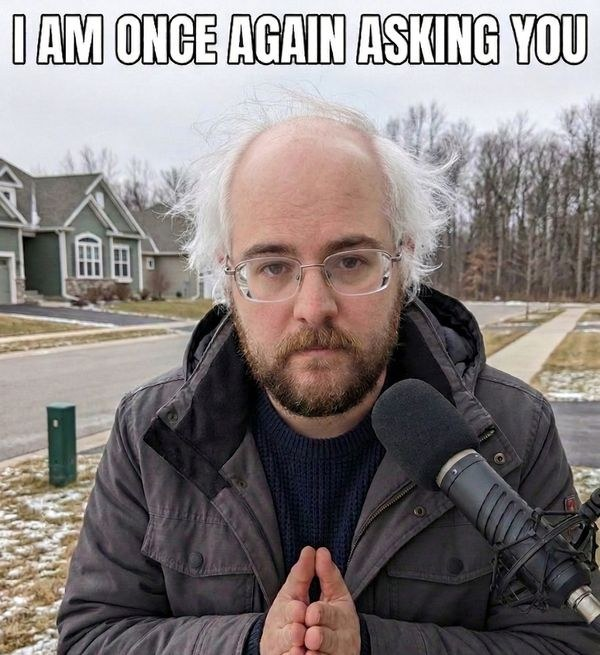
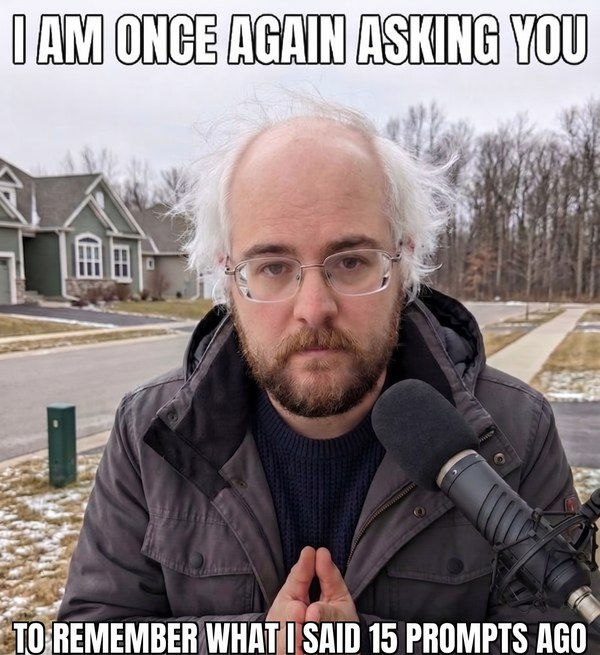
Edition 7: bake meme caption into image, upgrade context window demo
Meme regenerated via Nano Banana with the tagline rendered into the
image. Interactive demo now shows per-message token costs, a live
whiteboard capacity meter, and a sliding "what the AI can see" frame
with token-based eviction, plus an autoplay button.

diff --git a/edition-7.html b/edition-7.html
@@ -204,11 +204,80 @@
       margin-top: 18px;
     }
 
+    .context-meter { margin-bottom: 20px; }
+
+    .context-meter-label {
+      display: flex;
+      justify-content: space-between;
+      align-items: baseline;
+      font-size: 13px;
+      font-weight: 600;
+      color: var(--purple-700);
+      margin-bottom: 6px;
+    }
+
+    .context-meter-label strong {
+      font-size: 13px;
+      color: var(--purple-700);
+      font-variant-numeric: tabular-nums;
+    }
+
+    .context-meter-track {
+      height: 10px;
+      background: var(--purple-200);
+      border-radius: 100px;
+      overflow: hidden;
+    }
+
+    .context-meter-fill {
+      height: 100%;
+      width: 0%;
+      background: var(--purple-500);
+      border-radius: 100px;
+      transition: width 0.4s ease, background-color 0.4s ease;
+    }
+
+    .context-meter-fill.warn { background: #ff9800; }
+
+    .chat-stage {
+      position: relative;
+      padding: 10px 8px;
+    }
+
+    .context-frame {
+      position: absolute;
+      left: 0;
+      right: 0;
+      border: 2px solid var(--purple-500);
+      background: rgba(142, 68, 173, 0.05);
+      border-radius: 12px;
+      pointer-events: none;
+      transition: top 0.4s ease, height 0.4s ease;
+      z-index: 1;
+    }
+
+    .context-frame-label {
+      position: absolute;
+      top: -9px;
+      right: 12px;
+      background: var(--purple-500);
+      color: #fff;
+      font-size: 10px;
+      font-weight: 700;
+      text-transform: uppercase;
+      letter-spacing: 0.5px;
+      padding: 2px 10px;
+      border-radius: 100px;
+      white-space: nowrap;
+    }
+
     .chat-msg {
       display: flex;
       margin-bottom: 10px;
-      transition: opacity 0.3s;
+      transition: opacity 0.4s, filter 0.4s;
     }
+
+    .chat-msg:last-child { margin-bottom: 0; }
 
     .chat-msg.teacher { justify-content: flex-end; }
 
@@ -233,34 +302,32 @@
       border-bottom-left-radius: 4px;
     }
 
+    .tok {
+      display: block;
+      width: fit-content;
+      margin-top: 6px;
+      font-size: 10.5px;
+      font-weight: 600;
+      padding: 1px 8px;
+      border-radius: 100px;
+    }
+
+    .chat-msg.teacher .tok {
+      background: rgba(255, 255, 255, 0.18);
+      color: rgba(255, 255, 255, 0.9);
+    }
+
+    .chat-msg.ai .tok {
+      background: var(--purple-100);
+      color: var(--purple-600);
+    }
+
     .chat-msg.hidden { display: none; }
 
     .chat-msg.forgotten {
       opacity: 0.3;
       filter: grayscale(1);
     }
-
-    .chat-divider {
-      display: flex;
-      align-items: center;
-      gap: 10px;
-      font-size: 11px;
-      font-weight: 700;
-      letter-spacing: 0.5px;
-      text-transform: uppercase;
-      color: var(--purple-500);
-      margin: 14px 0;
-      white-space: nowrap;
-    }
-
-    .chat-divider::before,
-    .chat-divider::after {
-      content: '';
-      flex: 1;
-      border-top: 2px dashed var(--purple-300);
-    }
-
-    .chat-divider.hidden { display: none; }
 
     .chat-controls {
       margin-top: 18px;
@@ -274,11 +341,34 @@
       margin-bottom: 6px;
     }
 
-    .chat-controls input[type="range"] {
-      width: 100%;
+    .chat-controls-row {
+      display: flex;
+      align-items: center;
+      gap: 14px;
+    }
+
+    .chat-controls-row input[type="range"] {
+      flex: 1;
       accent-color: var(--purple-500);
       cursor: pointer;
     }
+
+    .chat-play-btn {
+      background: var(--purple-500);
+      color: #fff;
+      border: none;
+      font-family: inherit;
+      font-size: 12px;
+      font-weight: 600;
+      padding: 6px 16px;
+      border-radius: 100px;
+      cursor: pointer;
+      letter-spacing: 0.3px;
+      white-space: nowrap;
+    }
+
+    .chat-play-btn:hover { background: var(--purple-600); }
+    .chat-play-btn:disabled { opacity: 0.6; cursor: default; }
 
     .chat-status {
       font-size: 13px;
@@ -580,9 +670,8 @@
 
   <!-- MEME BANNER -->
   <div class="meme-banner">
-    <img src="tom-bernie-summer.jpg" alt="Tom as Bernie Sanders in mittens and a winter coat, once again asking" style="max-width:280px; height:auto; border-radius:10px; margin-bottom:14px;" />
-    <div class="meme-text">&ldquo;&hellip;to remember what I said 15 prompts ago.&rdquo;</div>
-    <div class="meme-attribution">Me, to ChatGPT, at 4pm on a Sunday. Why does it forget? Scroll down to Scary Words. (And yes, this image is AI-made &mdash; see the Tool Spotlight.)</div>
+    <img src="tom-bernie-summer.jpg" alt="Meme of Tom in a winter coat captioned: I am once again asking you to remember what I said 15 prompts ago" style="max-width:280px; height:auto; border-radius:10px; margin-bottom:14px;" />
+    <div class="meme-attribution">Me, to ChatGPT, at 4pm on a Sunday. Why does it forget? Scroll down to Scary Words. (Meme made with Nano Banana &mdash; see the Tool Spotlight.)</div>
   </div>
 
   <!-- INTRO -->
@@ -639,30 +728,42 @@
     <span class="section-label">Interactive</span>
     <h2 class="section-title">Watch the AI Forget &#x1F41F;</h2>
     <p>
-      Here&rsquo;s a (lightly dramatised) chat between a history teacher and an AI. This particular AI has a tiny context window: it can only see the <strong>last 4 messages</strong>. Drag the slider to continue the conversation and watch the older messages fall out of its memory&hellip;
+      Here&rsquo;s a (lightly dramatised) chat between a history teacher and an AI. This particular AI has a tiny context window: a whiteboard with room for just <strong>60 tokens</strong> &mdash; and as you&rsquo;ll remember from last edition, every message costs a few. Drag the slider (or hit play) and watch what happens when the whiteboard fills up&hellip;
     </p>
 
     <div class="chat-demo">
-      <div id="chat-messages">
-        <div class="chat-msg teacher" data-i="1"><div class="chat-bubble">Plan me a Year 8 lesson on the Battle of Hastings.</div></div>
-        <div class="chat-msg ai" data-i="2"><div class="chat-bubble">Here you go &mdash; a starter, a source analysis task and a plenary. &#x2694;&#xFE0F;</div></div>
-        <div class="chat-msg teacher" data-i="3"><div class="chat-bubble">Make the starter a retrieval quiz.</div></div>
-        <div class="chat-msg ai" data-i="4"><div class="chat-bubble">Done &mdash; five quick-fire questions on 1066.</div></div>
-        <div class="chat-msg teacher" data-i="5"><div class="chat-bubble">Now add a card sort on the causes.</div></div>
-        <div class="chat-msg ai" data-i="6"><div class="chat-bubble">Added &mdash; 12 cards across three categories.</div></div>
-        <div class="chat-msg teacher" data-i="7"><div class="chat-bubble">Brilliant. Turn the whole lesson into a worksheet.</div></div>
-        <div class="chat-msg ai" data-i="8"><div class="chat-bubble">Of course! Quick question &mdash; which battle is this for, and what year group? &#x1F605;</div></div>
+      <div class="context-meter">
+        <div class="context-meter-label">
+          <span>&#x1F9E0; The AI&rsquo;s whiteboard</span>
+          <strong id="meter-count">0 / 60 tokens</strong>
+        </div>
+        <div class="context-meter-track"><div class="context-meter-fill" id="meter-fill"></div></div>
+      </div>
+
+      <div class="chat-stage" id="chat-stage">
+        <div class="context-frame" id="context-frame"><span class="context-frame-label">What the AI can see</span></div>
+        <div class="chat-msg teacher" data-i="1" data-tok="12"><div class="chat-bubble">Plan me a Year 8 lesson on the Battle of Hastings.<span class="tok">12 tokens</span></div></div>
+        <div class="chat-msg ai" data-i="2" data-tok="16"><div class="chat-bubble">Here you go &mdash; a starter, a source analysis task and a plenary. &#x2694;&#xFE0F;<span class="tok">16 tokens</span></div></div>
+        <div class="chat-msg teacher" data-i="3" data-tok="8"><div class="chat-bubble">Make the starter a retrieval quiz.<span class="tok">8 tokens</span></div></div>
+        <div class="chat-msg ai" data-i="4" data-tok="9"><div class="chat-bubble">Done &mdash; five quick-fire questions added.<span class="tok">9 tokens</span></div></div>
+        <div class="chat-msg teacher" data-i="5" data-tok="9"><div class="chat-bubble">Now add a card sort on the causes.<span class="tok">9 tokens</span></div></div>
+        <div class="chat-msg ai" data-i="6" data-tok="10"><div class="chat-bubble">Added &mdash; 12 cards across three categories.<span class="tok">10 tokens</span></div></div>
+        <div class="chat-msg teacher" data-i="7" data-tok="10"><div class="chat-bubble">Brilliant. Turn the whole lesson into a worksheet.<span class="tok">10 tokens</span></div></div>
+        <div class="chat-msg ai" data-i="8" data-tok="18"><div class="chat-bubble">Of course! Quick question &mdash; which battle is this for, and what year group? &#x1F605;<span class="tok">18 tokens</span></div></div>
       </div>
 
       <div class="chat-controls">
-        <label for="chat-slider">Drag to continue the conversation &#x1F447;</label>
-        <input type="range" id="chat-slider" min="4" max="8" step="1" value="4" />
+        <label for="chat-slider">Drag to play out the conversation &#x1F447;</label>
+        <div class="chat-controls-row">
+          <input type="range" id="chat-slider" min="1" max="8" step="1" value="1" aria-label="Conversation progress" />
+          <button type="button" id="chat-play" class="chat-play-btn">&#x25B6; Play</button>
+        </div>
       </div>
       <p class="chat-status" id="chat-status"></p>
     </div>
 
     <p style="margin-top: 18px; font-size: 13px; color: var(--text-muted);">
-      Real context windows hold thousands of messages, not four &mdash; but the mechanism is exactly the same. The moment something leaves the window, the AI doesn&rsquo;t just forget it. It has no idea it ever knew it.
+      Real context windows hold hundreds of thousands of tokens, not 60 &mdash; but the mechanism is exactly the same. The moment a message slides out of the window, the AI doesn&rsquo;t just forget it. It has no idea it ever knew it.
     </p>
   </section>
 
@@ -871,44 +972,90 @@
 
 <script>
 (function () {
+  var CAP = 60;
   var slider = document.getElementById('chat-slider');
   var status = document.getElementById('chat-status');
-  var container = document.getElementById('chat-messages');
-  var messages = container.querySelectorAll('.chat-msg');
-  var WINDOW_SIZE = 4;
+  var stage = document.getElementById('chat-stage');
+  var frame = document.getElementById('context-frame');
+  var meterFill = document.getElementById('meter-fill');
+  var meterCount = document.getElementById('meter-count');
+  var playBtn = document.getElementById('chat-play');
+  var messages = stage.querySelectorAll('.chat-msg');
+  var tokens = {};
+  messages.forEach(function (msg) {
+    tokens[parseInt(msg.getAttribute('data-i'), 10)] = parseInt(msg.getAttribute('data-tok'), 10);
+  });
 
-  var divider = document.createElement('div');
-  divider.className = 'chat-divider';
-  divider.innerHTML = '&#x1F9E0; The AI&rsquo;s memory starts here';
+  function stateFor(n) {
+    var total = 0;
+    for (var i = 1; i <= n; i++) total += tokens[i];
+    var evicted = 0;
+    while (total > CAP) { evicted++; total -= tokens[evicted]; }
+    return { evicted: evicted, total: total };
+  }
 
   function update() {
     var n = parseInt(slider.value, 10);
-    var forgottenCount = Math.max(0, n - WINDOW_SIZE);
+    var s = stateFor(n);
 
     messages.forEach(function (msg) {
       var i = parseInt(msg.getAttribute('data-i'), 10);
       msg.classList.toggle('hidden', i > n);
-      msg.classList.toggle('forgotten', i <= forgottenCount);
+      msg.classList.toggle('forgotten', i <= s.evicted);
     });
 
-    if (forgottenCount > 0) {
-      var firstRemembered = container.querySelector('.chat-msg[data-i="' + (forgottenCount + 1) + '"]');
-      container.insertBefore(divider, firstRemembered);
-      divider.classList.remove('hidden');
-    } else if (divider.parentNode) {
-      divider.classList.add('hidden');
+    var first = stage.querySelector('.chat-msg[data-i="' + (s.evicted + 1) + '"]');
+    var last = stage.querySelector('.chat-msg[data-i="' + n + '"]');
+    if (first && last) {
+      var top = first.offsetTop - 6;
+      frame.style.top = top + 'px';
+      frame.style.height = ((last.offsetTop + last.offsetHeight + 6) - top) + 'px';
     }
 
-    if (n === 4) {
-      status.innerHTML = 'All 4 messages fit in the window &mdash; the AI remembers everything. So far, so good. &#x1F60C;';
-    } else if (n < 8) {
-      status.innerHTML = 'The oldest ' + (forgottenCount === 1 ? 'message has' : forgottenCount + ' messages have') + ' fallen out of the window. The AI can no longer see ' + (forgottenCount === 1 ? 'it' : 'them') + '&hellip;';
+    meterCount.textContent = s.total + ' / ' + CAP + ' tokens';
+    meterFill.style.width = Math.round(s.total / CAP * 100) + '%';
+    meterFill.classList.toggle('warn', s.evicted > 0 || s.total >= CAP * 0.9);
+
+    if (s.evicted === 0) {
+      if (n === 1) {
+        status.innerHTML = '12 / 60 tokens &mdash; plenty of room on the whiteboard. &#x1F60C;';
+      } else if (n < 5) {
+        status.innerHTML = 'Still fits &mdash; the AI can see the whole conversation.';
+      } else {
+        status.innerHTML = s.total + ' / 60 &mdash; the whiteboard is nearly full&hellip;';
+      }
+    } else if (s.evicted === 1) {
+      status.innerHTML = 'Full! The oldest message just got wiped &mdash; &lsquo;Year 8&rsquo; and &lsquo;Battle of Hastings&rsquo; are gone. &#x1F44B;';
+    } else if (s.evicted === 2) {
+      status.innerHTML = 'Wiped again &mdash; the AI&rsquo;s own first lesson plan has vanished off the board.';
     } else {
-      status.innerHTML = '&lsquo;Year 8&rsquo; and &lsquo;Battle of Hastings&rsquo; left the window ages ago &mdash; and the AI has no idea it ever knew them. &#x1F41F;';
+      status.innerHTML = '&lsquo;Which battle is this for?&rsquo; It&rsquo;s not being daft &mdash; the answer simply isn&rsquo;t on its whiteboard any more. &#x1F41F;';
     }
   }
 
   slider.addEventListener('input', update);
+  window.addEventListener('resize', update);
+  if (document.fonts && document.fonts.ready) document.fonts.ready.then(update);
+
+  var playTimer = null;
+  playBtn.addEventListener('click', function () {
+    if (playTimer) return;
+    playBtn.disabled = true;
+    slider.value = 1;
+    update();
+    playTimer = setInterval(function () {
+      var n = parseInt(slider.value, 10);
+      if (n >= 8) {
+        clearInterval(playTimer);
+        playTimer = null;
+        playBtn.disabled = false;
+        return;
+      }
+      slider.value = n + 1;
+      update();
+    }, 1100);
+  });
+
   update();
 })();
 </script>
